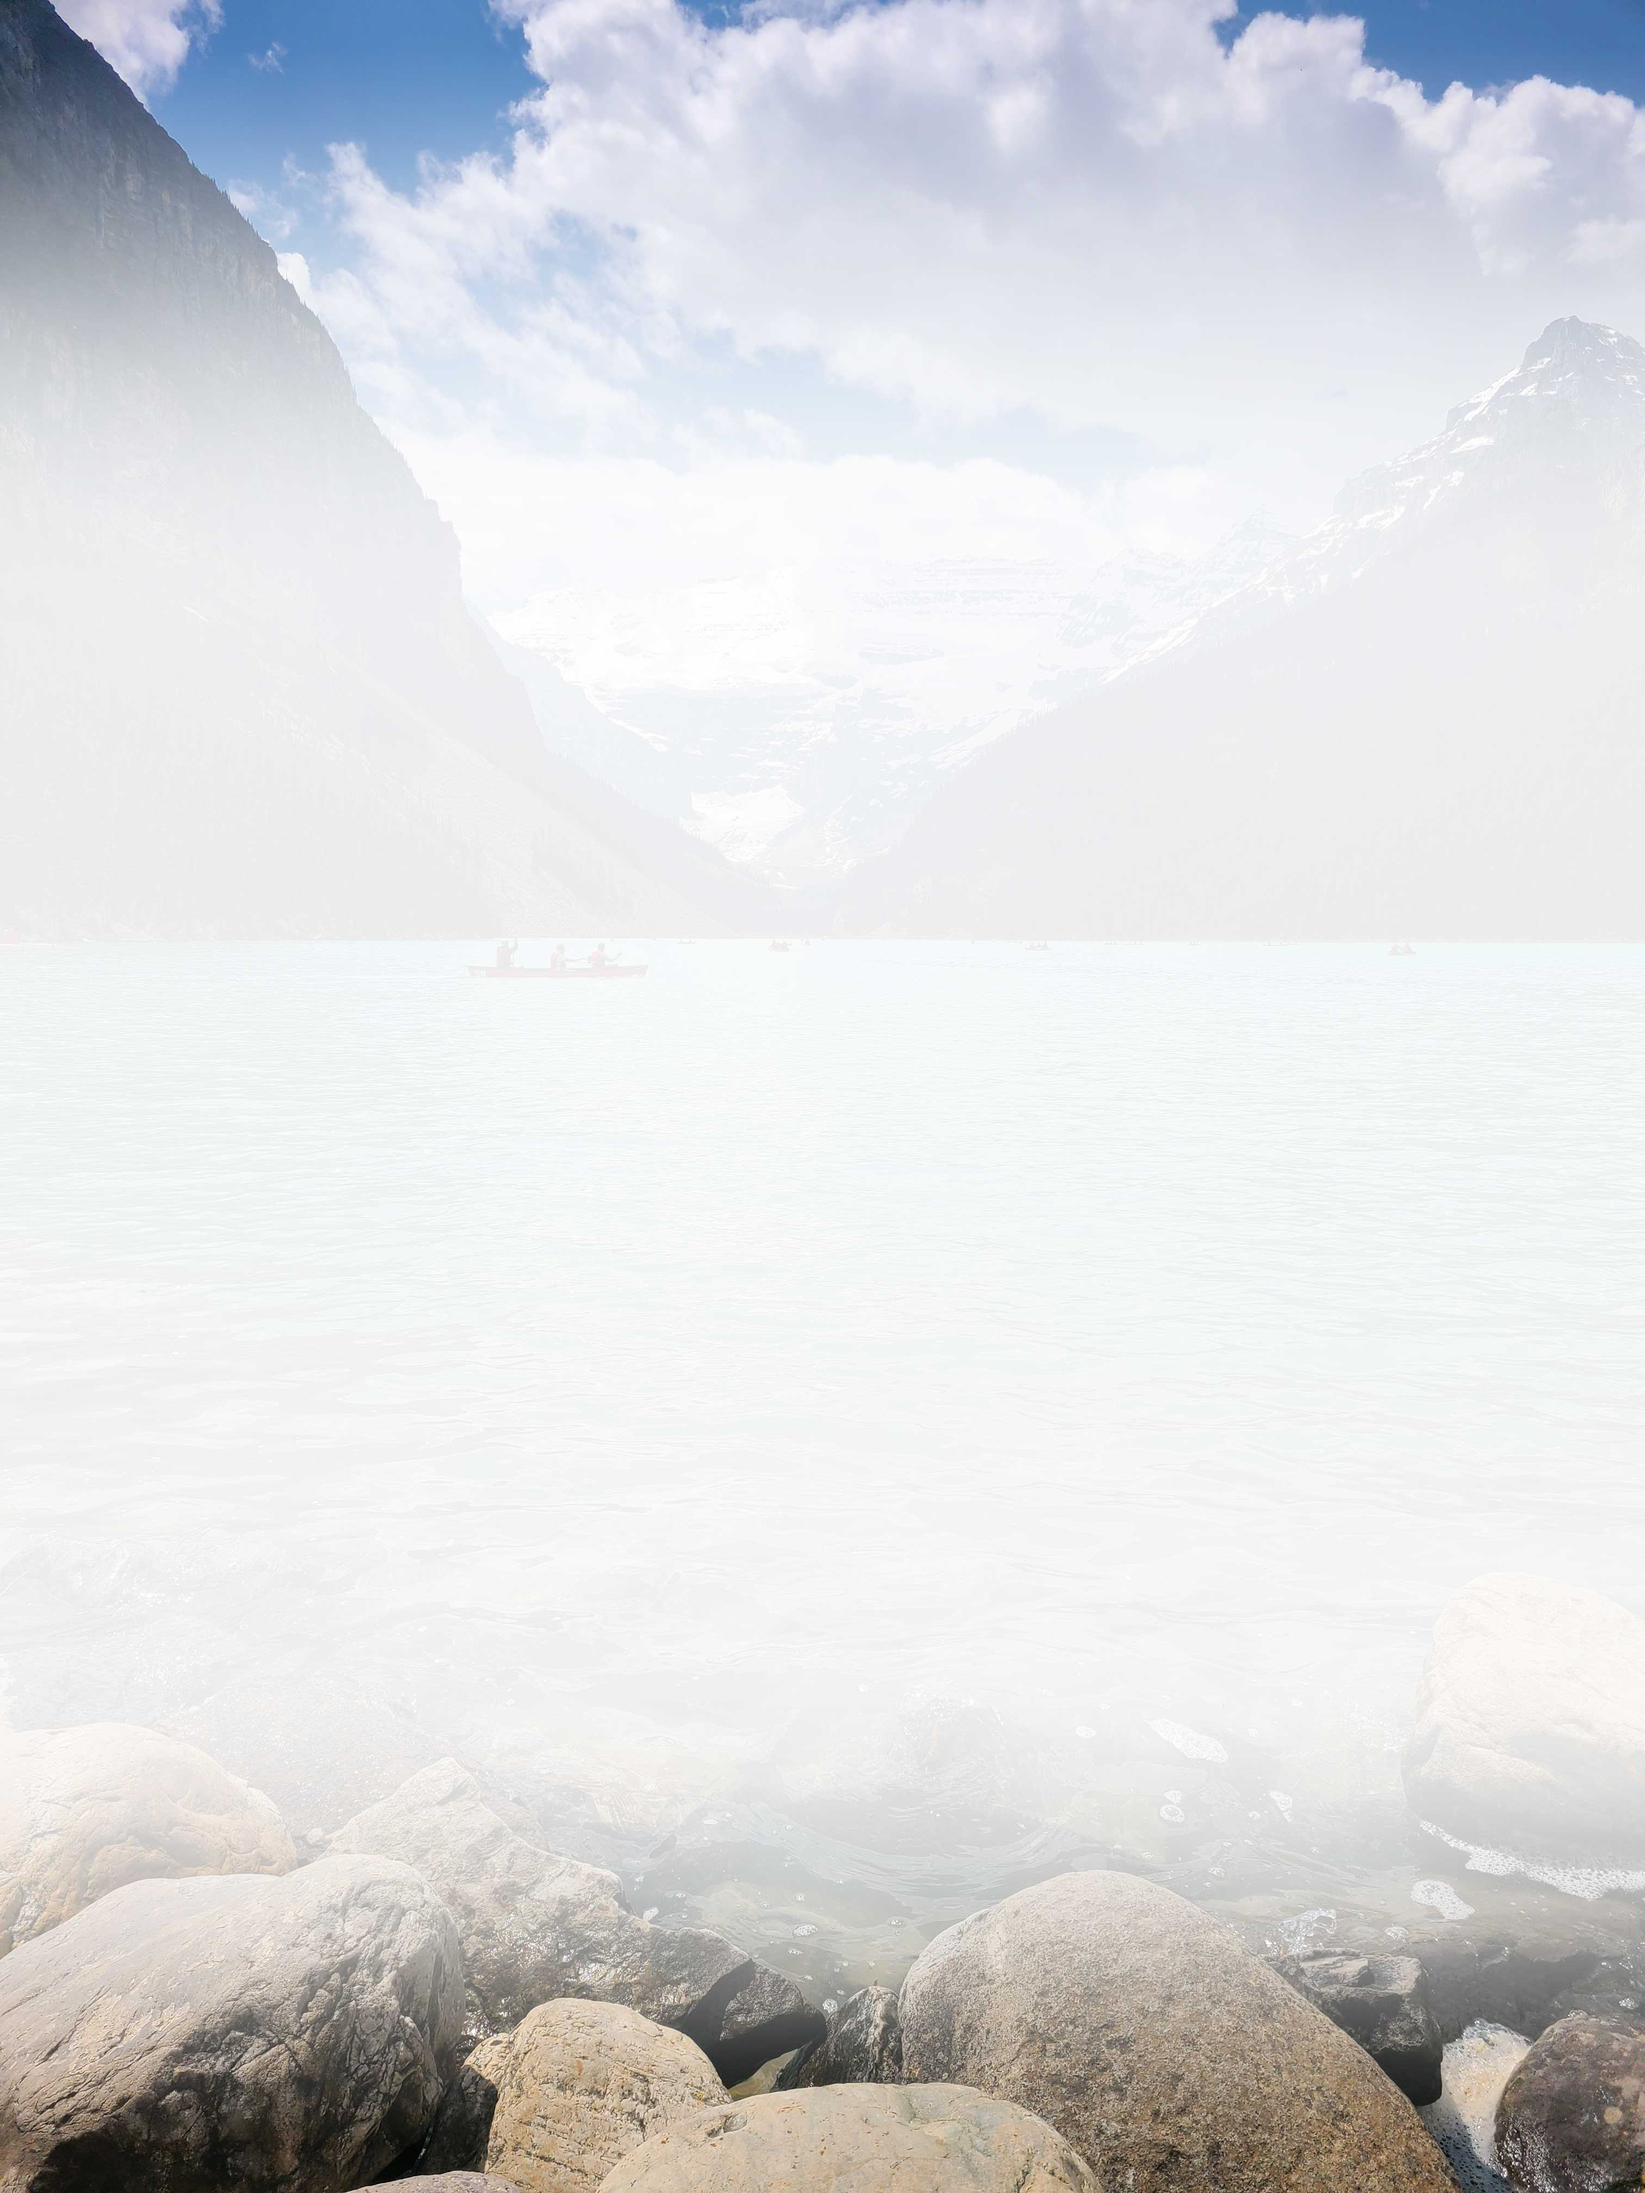
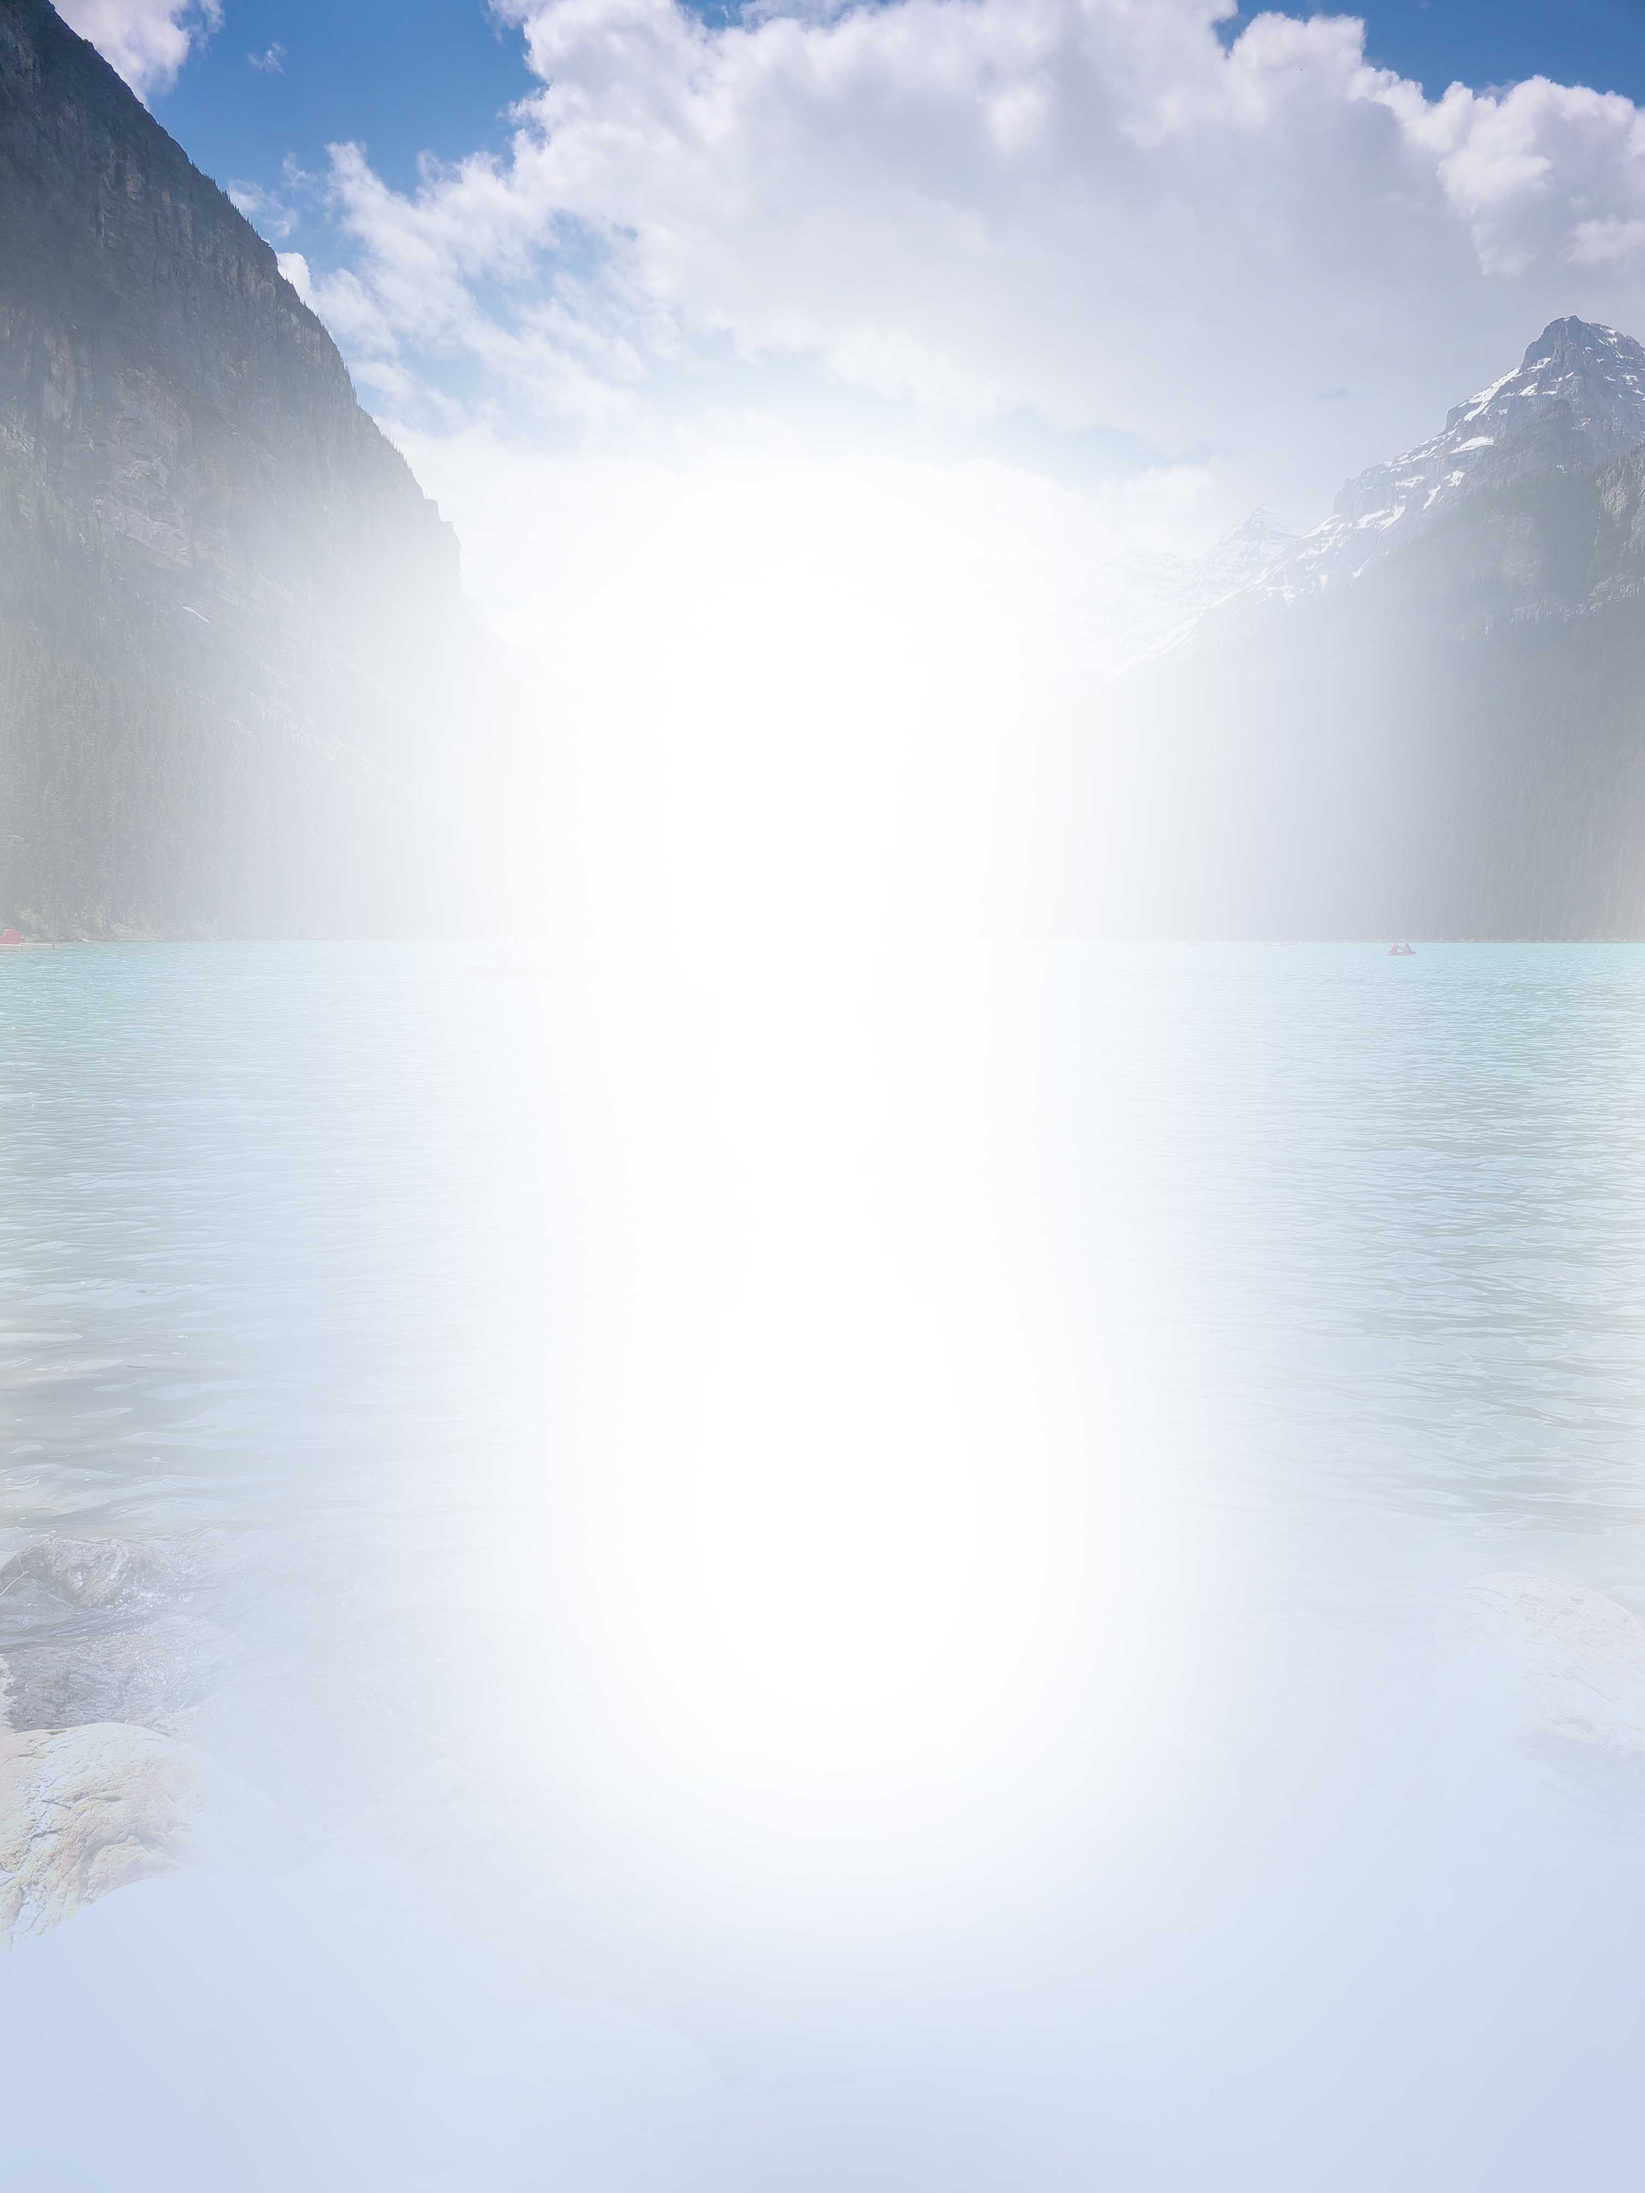
bg5 padding left of p

diff --git a/pages/humanrights.jsx b/pages/humanrights.jsx
@@ -39,12 +39,13 @@ const SectionContainer = styled.div`
     /* } */
     .quote {
         font-style: italic;
+        padding-left: 0;
     }
     p {
         font-size: clamp(16px, 2.1vw, 35px);
         flex: 0.6;
         @media (min-width: 750px) {
-            padding-left: 5px;
+            padding-left: 20px;
         }
         span {
             font-weight: bold;

diff --git a/styles/index.css b/styles/index.css
@@ -9,7 +9,7 @@
     padding-top: 10px;
   }
   .background {
-    background-image: url("/homePage/bgWhite2.jpg");
+    background-image: url("/homePage/bgWhite.jpg");
     background-size: cover;
     background-position: center;
 }

diff --git a/pages/education.jsx b/pages/education.jsx
@@ -47,7 +47,7 @@ const SectionContainer = styled.div`
         flex: 0.6;
 
         @media (min-width: 750px) {
-            padding-left: 5px;
+            padding-left: 20px;
         }
     }
 
